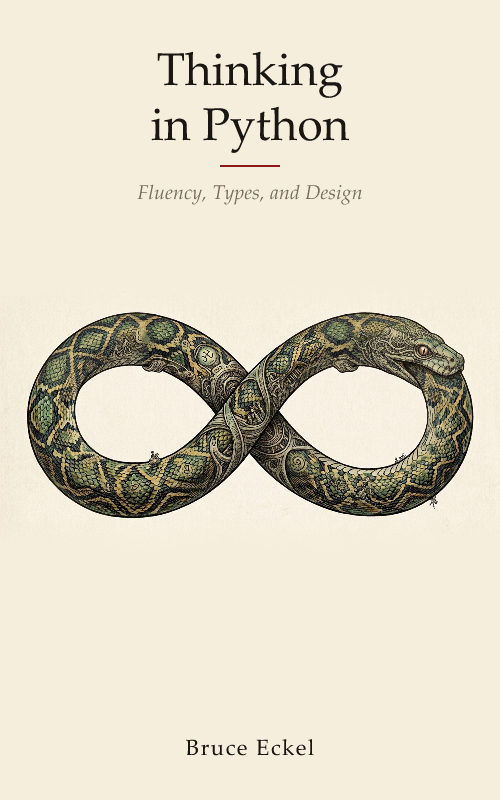
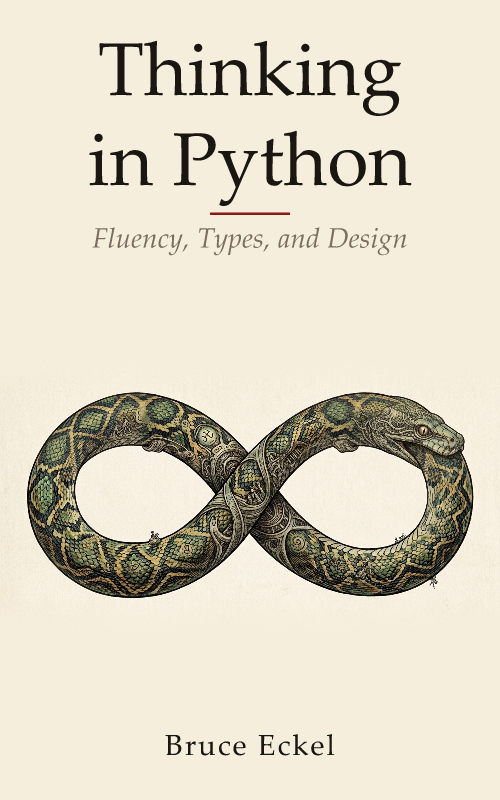
Enlarge cover type; fix EPUB contents page and Kindle listing indentation
Cover: title 92 -> 150, subtitle 40 -> 56, author 44 -> 58 on the
1000-unit page, and the art now centers between the subtitle and the
author line (art_center) instead of a fixed h * 0.52, so the larger
type clears the snake on the 3:4 e-ink and Letter pages too.

EPUB contents page: pandoc copies the chapter heading's eyebrow span
into nav.xhtml, where the eyebrow CSS made "Chapter 1" a tiny line
above each title. polish_toc() rewrites nav.xhtml and toc.ncx after
pandoc to "1. Introduction", and classes Part and chapter entries so
the stylesheet can set Parts apart and shrink section entries.

Listings on a Kindle: leading whitespace draws at about half width
(spaces and NBSP alike) while whitespace after any glyph, even a
zero-width one, draws in full, so every indented line now starts with
U+200B. The font is the bare `monospace` keyword; a named family in
front of it lost the monospace entirely. Measured inside the real
book; a small standalone probe EPUB converts differently and misled
four rounds, which CLAUDE.md now records.

Claude-Session: https://claude.ai/code/session_01GrzNevKMNtmfLAydkYCbDb

diff --git a/tools/build_epub.py b/tools/build_epub.py
@@ -75,6 +75,7 @@ import shutil
 import subprocess
 import sys
 import tokenize
+import zipfile
 from html import escape
 from pathlib import Path
 
@@ -116,6 +117,12 @@ SVG_PNG_WIDTH = 1600
 # with a packaged Windows install (scoop install resvg; rsvg-convert
 # has no winget/scoop package on Windows).
 SVG_TOOLS = ("resvg", "rsvg-convert", "magick", "inkscape")
+# The listing font. The bare generic keyword is deliberate: on a
+# Kindle Paperwhite `"Courier New", Courier, monospace` fell back to
+# the body serif instead of walking the list to the generic. (The
+# Kindle sets the book's `pre` in monospace even with no rule; this
+# is for readers whose default differs.)
+CODE_FONT = "monospace"
 # Code-listing font size, relative to the surrounding prose.
 CODE_FONT_SCALE = 0.75
 # How far past its own start a wrapped code line hangs, in characters.
@@ -441,6 +448,10 @@ def highlight_ranges(
     return ranges
 
 
+# U+200B ZERO WIDTH SPACE, in front of every indented listing line.
+ZWSP = "&#8203;"
+
+
 def marked_up(line: str, spans: list[tuple[int, int, str]]) -> str:
     """The line escaped, with a `<span class>` around each range.
 
@@ -531,8 +542,18 @@ def listing_html(lines: list[str], python: bool = False) -> str:
             # An empty block box has no height; a space gives it one.
             out.append('<span class="h0">&#160;</span>')
             continue
-        indent = min(len(line) - len(line.lstrip()), MAX_HANG_INDENT)
+        lead = len(line) - len(line.lstrip())
+        indent = min(lead, MAX_HANG_INDENT)
         text = marked_up(line, ranges.get(index, []))
+        if lead:
+            # A Kindle draws whitespace at the start of a line at
+            # about half width (spaces and `&#160;` alike), so a
+            # four-space indent showed as two characters. Whitespace
+            # after any glyph keeps its full width, even after a
+            # zero-width one, so the indent follows a zero-width
+            # space. Measured in the book itself on a Paperwhite;
+            # `MEMORY.md` (kindle-listing-indentation) has the data.
+            text = ZWSP + text
         out.append(f'<span class="h{indent}">{text}</span>')
     out.append("</pre>")
     return "".join(out)
@@ -757,7 +778,9 @@ def epub_css(variant: str) -> str:
     set anywhere: a Kindle's line-spacing control and its default type
     ramp for `h1`-`h4` already do that, and a value set here does not
     track a per-element override consistently, which reads as spacing
-    that drifts from paragraph to paragraph. The one font size this
+    that drifts from paragraph to paragraph. `CODE_FONT` is set
+    because a Kindle otherwise set listings in the body serif (see
+    its comment). The one font size this
     sets, `CODE_FONT_SCALE` for listings, is set once here and inherited
     by `pre code` rather than repeated, so a nested `<code>` inside a
     `<pre>` does not compound the scale. `pre`'s `white-space: pre-wrap`
@@ -782,12 +805,18 @@ def epub_css(variant: str) -> str:
     the "4." being the reader's count of nav entries so far, Parts
     included, not the chapter number). Suppressing the list's own
     marker leaves the chapter's real number as the only one shown.
+    The other `#toc` rules work on the classes `polish_nav()` adds:
+    Parts stand out as bold group headings with space above, chapters
+    get a little air, and section entries drop to 0.85em so a
+    chapter's eight sections read as its contents, not as eight more
+    chapters. `text-decoration: none` asks the reader not to underline
+    every entry; a Kindle may keep its own underline anyway.
     """
     return f"""pre {{
   white-space: pre-wrap; overflow-wrap: break-word;
   page-break-inside: avoid;
 }}
-pre, code {{ font-size: {CODE_FONT_SCALE}em; }}
+pre, code {{ font-family: {CODE_FONT}; font-size: {CODE_FONT_SCALE}em; }}
 pre code {{ font-size: inherit; }}
 {hang_css()}
 {HIGHLIGHT_CSS[variant]}h1, h2, h3, h4 {{ page-break-after: avoid; }}
@@ -801,7 +830,74 @@ img.chapter-ornament {{ margin: 0.1em 0 1em; }}
 table {{ border-collapse: collapse; }}
 th, td {{ border: 1px solid currentColor; padding: 0.3em 0.5em; }}
 #toc ol {{ list-style: none; padding-left: 1em; }}
+#toc ol ol {{ font-size: 0.85em; }}
+#toc a {{ text-decoration: none; }}
+#toc .toc-chapter {{ margin-top: 0.4em; }}
+#toc .toc-part {{ margin-top: 1.2em; font-weight: bold;
+  letter-spacing: 0.05em; }}
 """
+
+
+# --------------------------------------------------------------------------- #
+# The contents page, fixed up after pandoc
+# --------------------------------------------------------------------------- #
+# Pandoc builds the nav document from each chapter's heading, inline
+# markup included, so every entry arrived as
+# `<span class="chapter-eyebrow">Chapter 4</span> Control Flow`, and
+# the eyebrow's own CSS (a block, half-size, letterspaced) applied on
+# the contents page too: a tiny "Chapter 4" on its own line above each
+# title. The NCX got the plain text, "Chapter 4 Control Flow". Both
+# are rewritten here to the site's and the PDF's form, "4. Control
+# Flow", and each nav entry is classed by what it is (`toc-part`,
+# `toc-chapter`) so the stylesheet can set Parts apart and shrink
+# sections without a child combinator, which not every Kindle
+# renderer honors.
+NAV_CHAPTER = re.compile(
+    r'<li id="([^"]+)"><a href="([^"]+)">'
+    r'<span class="chapter-eyebrow">(?:Chapter (\d+)|(Appendix [A-Z]))'
+    r"</span> ")
+NAV_PART = re.compile(r'<li id="([^"]+)"><a href="([^"]*#part-[^"]*)">')
+NCX_CHAPTER = re.compile(r"<text>(?:Chapter (\d+)|(Appendix [A-Z])) ")
+
+
+def _number(num: str | None, appendix: str | None) -> str:
+    return f"{num or appendix}. "
+
+
+def polish_nav(xhtml: str) -> str:
+    """The nav document with numbered, classed chapter entries."""
+    xhtml = NAV_CHAPTER.sub(
+        lambda m: (f'<li id="{m[1]}" class="toc-chapter">'
+                   f'<a href="{m[2]}">{_number(m[3], m[4])}'), xhtml)
+    return NAV_PART.sub(
+        r'<li id="\1" class="toc-part"><a href="\2">', xhtml)
+
+
+def polish_ncx(ncx: str) -> str:
+    """The NCX with the same "4. Title" labels."""
+    return NCX_CHAPTER.sub(
+        lambda m: f"<text>{_number(m[1], m[2])}", ncx)
+
+
+def polish_toc(epub: Path) -> None:
+    """Rewrite the two contents files inside a finished EPUB.
+
+    An EPUB is a zip whose first entry must be the uncompressed
+    `mimetype`, so the archive is copied entry by entry, each with
+    its own compression, rather than edited in place.
+    """
+    tmp = epub.with_suffix(".tmp")
+    with (zipfile.ZipFile(epub) as src,
+          zipfile.ZipFile(tmp, "w") as dst):
+        for info in src.infolist():
+            data = src.read(info)
+            name = info.filename.rsplit("/", 1)[-1]
+            if name == "nav.xhtml":
+                data = polish_nav(data.decode("utf-8")).encode("utf-8")
+            elif name == "toc.ncx":
+                data = polish_ncx(data.decode("utf-8")).encode("utf-8")
+            dst.writestr(info, data, compress_type=info.compress_type)
+    tmp.replace(epub)
 
 
 # --------------------------------------------------------------------------- #
@@ -895,6 +991,7 @@ def build(out_dir: Path, keep_source: bool = False,
             print(f"NOTE: no cover-{variant} image; "
                   "run tools/make_cover.py.")
         run_pandoc(src, css, meta, epub, images, dc, cover)
+        polish_toc(epub)
         size = epub.stat().st_size / 1024
         print(f"Built {epub.relative_to(ROOT)} "
               f"({len(chapters)} chapters, {size:.0f} KB).")

diff --git a/tools/tests/test_build_epub.py b/tools/tests/test_build_epub.py
@@ -25,6 +25,8 @@ from build_epub import (
     metadata_yaml,
     namespace_headings,
     outside_code,
+    polish_nav,
+    polish_ncx,
     relink,
     release_line,
     title_anchor,
@@ -250,8 +252,16 @@ def test_line_carries_its_own_indent_as_its_class() -> None:
     # eight columns does not begin to the left of the code it continues.
     html = listing_html(["def f():", "    if x:", "        pass"])
     assert 'class="h0">def f():' in html
-    assert 'class="h4">    if x:' in html
-    assert 'class="h8">        pass' in html
+    assert 'class="h4">&#8203;    if x:' in html
+    assert 'class="h8">&#8203;        pass' in html
+
+def test_indent_follows_a_zero_width_space() -> None:
+    # A Kindle draws line-leading whitespace at half width but
+    # whitespace after any glyph, even a zero-width one, in full.
+    html = listing_html(["def f():", "    return 1"], python=True)
+    assert ('&#8203;    <span class="kw">return</span> '
+            '<span class="nu">1</span>') in html
+    assert 'class="h0"><span' in html  # no prefix on an unindented line
 
 def test_indent_deeper_than_the_last_rule_is_clamped() -> None:
     deep = " " * (MAX_HANG_INDENT + 6) + "x"
@@ -341,12 +351,18 @@ def test_variant_names() -> None:
 def test_color_css_colors_the_tokens() -> None:
     css = epub_css("color")
     assert "pre .kw { color:" in css
-    assert "font-weight: bold" not in css
+    assert "pre .kw { font-weight" not in css
 
 def test_eink_css_bolds_instead_of_coloring() -> None:
     css = epub_css("eink")
     assert "pre .kw { font-weight: bold; }" in css
     assert "color: #" not in css
+
+def test_listings_ask_for_a_monospace_font() -> None:
+    # A Kindle with no family named drew code in its body serif, and
+    # given a named family before the generic it did the same.
+    for variant in VARIANTS:
+        assert "pre, code { font-family: monospace;" in epub_css(variant)
 
 def test_line_spans_are_their_own_blocks() -> None:
     # The block behavior lives in the h* rules, not on a bare
@@ -364,6 +380,38 @@ def test_prose_around_a_fence_is_untouched() -> None:
 def test_a_text_fence_is_converted_too() -> None:
     # Program output wraps the same way code does.
     assert "<pre>" in hang_listings("```text\nsome output\n```\n")
+
+# ── the contents page ─────────────────────────────────────────────────────────
+
+def test_nav_entry_is_numbered_and_classed() -> None:
+    # Pandoc copies the heading's eyebrow span into the nav, where
+    # the eyebrow CSS made "Chapter 4" a tiny line above the title.
+    nav = ('<li id="toc-li-9"><a href="text/ch005.xhtml#ch04">'
+           '<span class="chapter-eyebrow">Chapter 4</span> Control Flow'
+           '</a><ol class="toc"><li id="toc-li-10">'
+           '<a href="text/ch005.xhtml#ch04-if">If</a></li></ol></li>')
+    out = polish_nav(nav)
+    assert out.startswith('<li id="toc-li-9" class="toc-chapter">'
+                          '<a href="text/ch005.xhtml#ch04">4. Control Flow</a>')
+    assert "chapter-eyebrow" not in out
+    assert '<li id="toc-li-10"><a' in out  # sections untouched
+
+def test_nav_appendix_and_part_entries() -> None:
+    nav = ('<li id="toc-li-1"><a href="text/ch002.xhtml#part-i">'
+           'Part I · Foundations</a></li>'
+           '<li id="toc-li-2"><a href="text/ch090.xhtml#chA">'
+           '<span class="chapter-eyebrow">Appendix A</span> Glossary</a>')
+    out = polish_nav(nav)
+    assert '<li id="toc-li-1" class="toc-part"><a' in out
+    assert '<li id="toc-li-2" class="toc-chapter">' in out
+    assert ">Appendix A. Glossary</a>" in out
+
+def test_ncx_labels_match_the_nav() -> None:
+    ncx = ("<text>Chapter 4 Control Flow</text>"
+           "<text>Appendix A Glossary</text><text>If</text>")
+    assert polish_ncx(ncx) == ("<text>4. Control Flow</text>"
+                               "<text>Appendix A. Glossary</text>"
+                               "<text>If</text>")
 
 def test_text_with_no_fence_is_returned_unchanged() -> None:
     assert hang_listings("Just prose.\n") == "Just prose.\n"

diff --git a/tools/make_cover.py b/tools/make_cover.py
@@ -87,24 +87,51 @@ ART_FILES = ("cover-color.jpg", "cover-eink.jpg",
 # --------------------------------------------------------------------------- #
 # Shared page furniture
 # --------------------------------------------------------------------------- #
+# Type layout (SVG user units on the 1000-wide page). The title
+# was first set at 92, which on a Kindle screen read as a modest
+# heading rather than a cover title; 150 puts "in Python" at about
+# 60% of the page width, the proportion trade covers use.
+TITLE_SIZE = 150
+TITLE_1_Y = 190
+TITLE_2_Y = 370
+RULE_Y = 425
+SUBTITLE_SIZE = 56
+SUBTITLE_Y = 495
+# Where the type block ends and the art may begin.
+TYPE_BOTTOM = SUBTITLE_Y + 20
+AUTHOR_SIZE = 58
+AUTHOR_MARGIN = 90
+
+
+def author_top(h: int) -> float:
+    """Top of the author line's caps on a page of height h."""
+    return h - AUTHOR_MARGIN - 0.7 * AUTHOR_SIZE
+
+
+def art_center(h: int) -> float:
+    """Vertical midpoint of the band between subtitle and author,
+    where the art is centered on every page height."""
+    return (TYPE_BOTTOM + author_top(h)) / 2
+
+
 def titles_svg(h: int, ink: str = INK,
                accent: str = ACCENT) -> str:
     """Title, rule, subtitle, and author for a page of height h."""
-    return f'''<text x="{W / 2}" y="170" text-anchor="middle"
-        font-family="{TITLE_FONT}" font-size="92"
+    return f'''<text x="{W / 2}" y="{TITLE_1_Y}" text-anchor="middle"
+        font-family="{TITLE_FONT}" font-size="{TITLE_SIZE}"
         fill="{ink}">Thinking</text>
-  <text x="{W / 2}" y="280" text-anchor="middle"
-        font-family="{TITLE_FONT}" font-size="92"
+  <text x="{W / 2}" y="{TITLE_2_Y}" text-anchor="middle"
+        font-family="{TITLE_FONT}" font-size="{TITLE_SIZE}"
         fill="{ink}">in Python</text>
-  <rect x="{W / 2 - 60}" y="330" width="120" height="4"
+  <rect x="{W / 2 - 80}" y="{RULE_Y}" width="160" height="5"
         fill="{accent}"/>
-  <text x="{W / 2}" y="398" text-anchor="middle"
-        font-family="{TITLE_FONT}" font-size="40"
+  <text x="{W / 2}" y="{SUBTITLE_Y}" text-anchor="middle"
+        font-family="{TITLE_FONT}" font-size="{SUBTITLE_SIZE}"
         font-style="italic"
         fill="{MUTED}">{build_site.BOOK_SUBTITLE}</text>
-  <text x="{W / 2}" y="{h - 90}" text-anchor="middle"
-        font-family="{TITLE_FONT}" font-size="44"
-        letter-spacing="3" fill="{ink}">Bruce Eckel</text>'''
+  <text x="{W / 2}" y="{h - AUTHOR_MARGIN}" text-anchor="middle"
+        font-family="{TITLE_FONT}" font-size="{AUTHOR_SIZE}"
+        letter-spacing="4" fill="{ink}">Bruce Eckel</text>'''
 
 
 def rasterize(svg_path: Path, png_path: Path, width: int) -> None:
@@ -140,7 +167,7 @@ def art_page_svg(uri: str, iw: int, ih: int, h: int,
     color and the art's interior paper never shows as a seam.
     """
     art_h = W * ih / iw
-    y = h * 0.52 - art_h / 2
+    y = art_center(h) - art_h / 2
     feather = 70
     return f'''<svg xmlns="http://www.w3.org/2000/svg"
      viewBox="0 0 {W} {h}" width="{W}" height="{h}">
@@ -426,7 +453,7 @@ def head_svg(loc, w: float,
 
 def cover_svg(h: int = H) -> str:
     """The drawn cover at width W and any height."""
-    art = body_svg(a=415, cx=W / 2, cy=h * 0.505)
+    art = body_svg(a=415, cx=W / 2, cy=art_center(h))
     return f'''<svg xmlns="http://www.w3.org/2000/svg"
      viewBox="0 0 {W} {h}" width="{W}" height="{h}">
   <rect width="{W}" height="{h}" fill="{PAPER}"/>

diff --git a/CLAUDE.md b/CLAUDE.md
@@ -192,6 +192,23 @@ as a not-yet-filled-in placeholder and filled in, even without `--update`.
   block finishes, before moving on. Chapter 10 (Cleanup)'s `cleanup.py` is
   the example that demonstrates this (it deliberately relies on `__del__`
   timing being unpredictable), so it is the usual trigger if this regresses.
+- **Kindle listings: only the real book is a valid test bed, and
+  line-leading whitespace is half width there.** Send to Kindle (email)
+  converts a tiny standalone probe EPUB differently from the full book
+  (probes rendered `pre` in Bookerly whatever the CSS said; the book
+  renders it monospace), so four probes gave answers the book then
+  contradicted. Test a listing change by building the book with a probe
+  chapter in front (a scratch script that monkeypatches
+  `build_epub.book_markdown`/`epub_css`, then `build()`), never a
+  separate small EPUB. Measured in the book on a Paperwhite: spaces or
+  `&#160;` at the start of a line draw at ~0.54 of a character; the same
+  whitespace after any glyph, even U+200B, draws full width; `ch` is
+  unsupported (zero); `6em` came out ~8.4 characters, not 10; a named
+  family before `monospace` (`"Courier New", Courier, monospace`) loses
+  the monospace entirely. Hence `listing_html()` prefixes each indented
+  line with `&#8203;` and keeps plain spaces, and `CODE_FONT` is the
+  bare keyword. Project memory `kindle-listing-indentation` has the
+  probe script layout.
 - **`build/` is derived and gitignored.** `extract_examples.py --write` now wipes
   the target under `build/` first, so a fresh sync is the fix for weird drift or a
   stale tree. A stale `build/examples/` was behind "phantom" timeouts/import errors.

diff --git a/!NOTES.md b/!NOTES.md
@@ -3,8 +3,6 @@ How can I improve the process on this book?
 Check for any unresolved issues in deep_review and readability directories
 Clean up after deep review and readability (add necessary info to the *_db.md files and delete deep_review and readability directories)
 
-New book cover & favicon
-
 Fable: Review the book to find and fix consistency issues
 
 Fable: What else should I do before I start my hand-editing pass? I'm hoping this requires as few hand-edits as possible.
